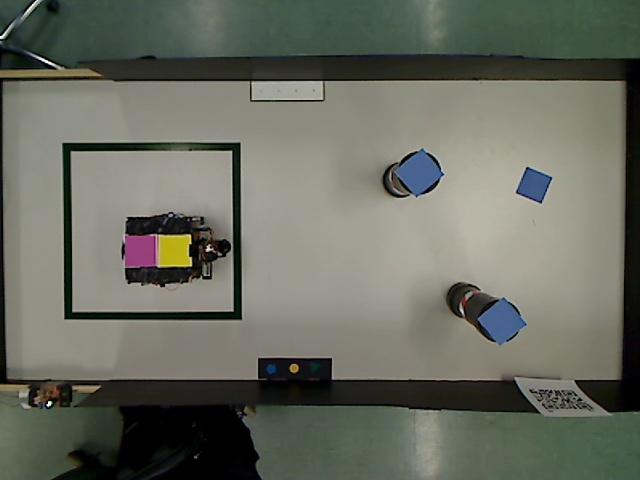
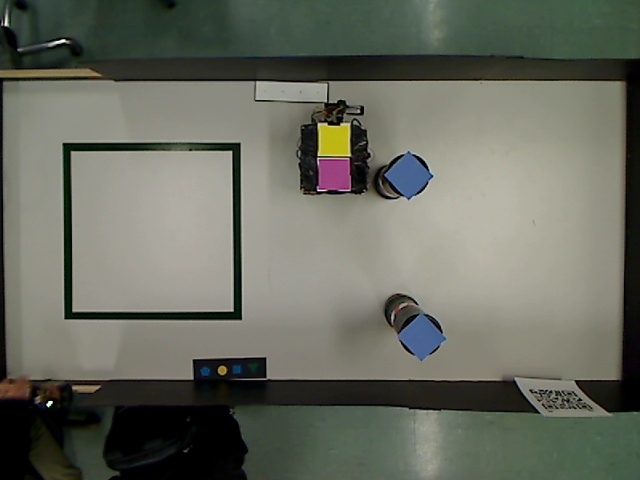
pow

diff --git a/sequence/Sequence.py b/sequence/Sequence.py
@@ -115,7 +115,6 @@ class Sequence:
         obstacle_detector = ObstacleDetector(img)
         self.array_point_obstacle = obstacle_detector.find_center_of_obstacle()
 
-
     def start(self, scan_for_qr=False, unsecure=False):
         logger.log_info("## Starting path finding")
         create_done = self.__create_smooth_path(unsecure)
@@ -228,7 +227,11 @@ class Sequence:
         except (NoPathFoundException, NoBeginingPointException):
             logger.log_critical(traceback.format_exc())
             logger.log_critical("Ayoye je suis dans l'obstacle...")
-            x, y = self.robot_mover.get_out_of_object(self.zone_dep_cardinal)
+            img = self.take_image()
+            robot_detector = RobotDetector(img)
+            robot_point = robot_detector.find_center_of_robot()
+            x, y = self.robot_mover.get_out_of_object(
+                self.zone_dep_cardinal, self.array_point_obstacle, robot_point)
             self.comm_pi.sendCoordinates(x, y)
             self.start()
 
@@ -248,9 +251,9 @@ class Sequence:
             img = self.take_image()
             robot_detector = RobotDetector(img)
             robot_point = robot_detector.find_center_of_robot()
-
             x, y = self.robot_mover.get_out_of_object(
-                self.zone_pickup_cardinal, self.array_point_obstacle, robot_point)
+                self.zone_pickup_cardinal, self.array_point_obstacle,
+                robot_point)
             self.comm_pi.sendCoordinates(x, y)
             self.start()
             self.__rotate_robot_on_zone_dep()

diff --git a/main.py b/main.py
@@ -85,17 +85,17 @@ def main_sequence(ui=True):
         no_world_cam=False)
     logger.log_info('Sequence start...')
     sequence.go_to_start_zone()
-    sequence.go_to_charge_robot()
-    sequence.go_to_decode_qr()
+    # sequence.go_to_charge_robot()
+    # sequence.go_to_decode_qr()
     # sequence.zone_dep_cardinal = 'EAST'
     # sequence.piece_color = None
     # sequence.piece_shape = CARRE
     # sequence.depot_number = ZONE_3
-    sequence.go_to_zone_pickup()
-    sequence.move_robot_around_pickup_zone(validation=False)
-    sequence.go_to_zone_dep()
-    sequence.move_robot_around_zone_dep()
-    sequence.go_to_start_zone()
+    # sequence.go_to_zone_pickup()
+    # sequence.move_robot_around_pickup_zone(validation=False)
+    # sequence.go_to_zone_dep()
+    # sequence.move_robot_around_zone_dep()
+    # sequence.go_to_start_zone()
     sequence.end_sequence()
     sequence.end()
 

diff --git a/domain/RobotMover.py b/domain/RobotMover.py
@@ -116,7 +116,8 @@ class RobotMover:
         closest_pt = ()
 
         for point in obstacle_array:
-            distance = math.sqrt((robot_point[0] - point[0])**2 + (robot_point[1] - point[1]**2))
+            distance = math.sqrt((robot_point[0] - point[0])**2 +
+                                 (robot_point[1] - point[1])**2)
 
             if distance < min_distance:
                 closest_pt = point
